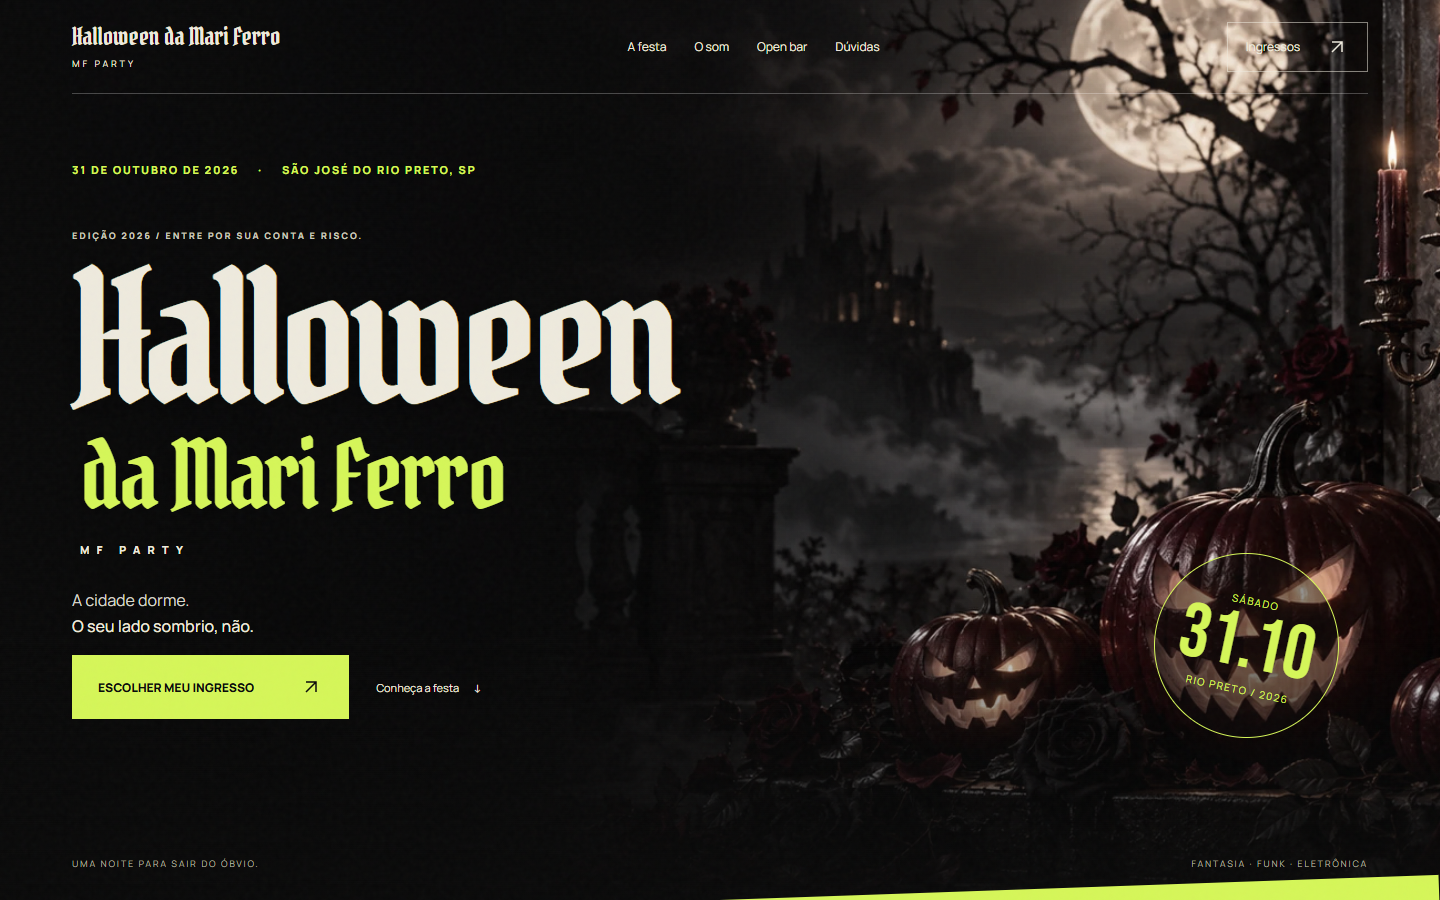
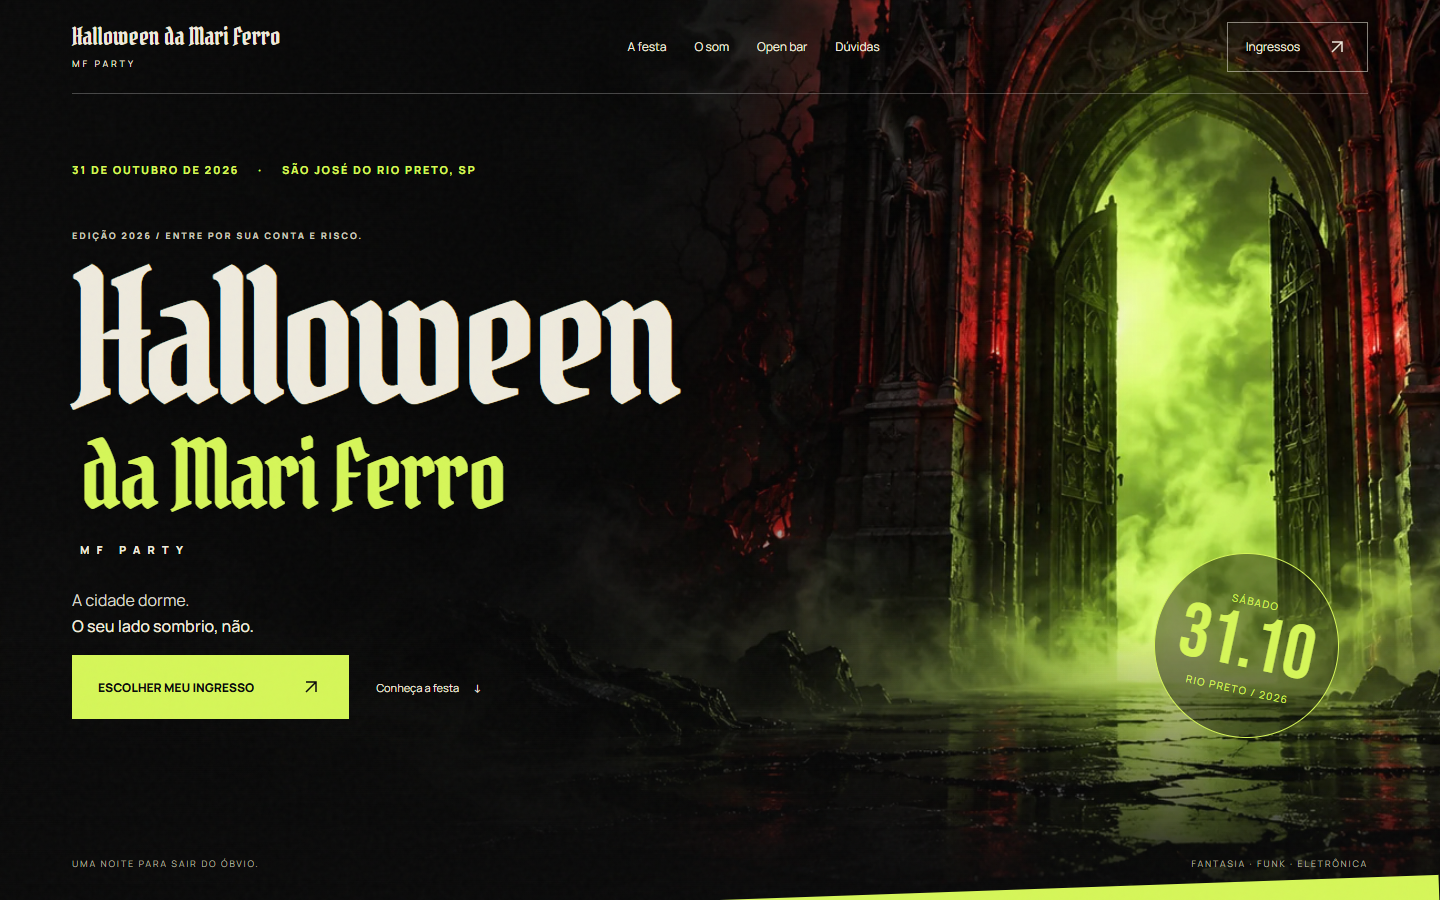
Troca fundo de abertura por portal gotico verde e vermelho

Changed region(s): [[0.5, 0.0, 1.0, 0.9644]]

diff --git a/css/home.css b/css/home.css
@@ -27,7 +27,7 @@ h2 em{font-style:normal;color:var(--acid)}
 .header nav a:hover{color:var(--acid)}
 .nav-cta{display:flex;align-items:center;gap:25px;border:1px solid #eeeadd88;padding:12px 18px;font-size:12px}
 .hero{position:relative;min-height:850px;height:100svh;max-height:1200px;isolation:isolate;overflow:hidden;background:#111510}
-.hero-art{position:absolute;inset:-8%;z-index:-2;background:linear-gradient(90deg,#090909 3%,#0909099c 40%,#09090900 75%),url('../images/mari-ferro-halloween.webp') center/cover;filter:saturate(.55)}
+.hero-art{position:absolute;inset:-8%;z-index:-2;background:linear-gradient(90deg,#090909 3%,#0909099c 40%,#09090900 75%),url('../images/halloween-portal.webp') center/cover;filter:saturate(.95)}
 .hero::after{content:"";position:absolute;inset:0;background:linear-gradient(0deg,#090909,transparent 30%);z-index:-1}
 .hero-content{padding-top:160px}
 .hero .eyebrow{color:var(--acid)}
@@ -150,7 +150,7 @@ footer p,footer>a:last-child{font-size:10px;color:var(--muted)}
 .header nav{display:none}
 .nav-cta{font-size:10px;padding:10px;gap:10px}
 .hero{height:850px;min-height:0;max-height:none}
-.hero-art{background-position:65% center;background-image:linear-gradient(90deg,#090909bd,#09090944),url('../images/mari-ferro-halloween.webp')}
+.hero-art{background-position:65% center;background-image:linear-gradient(90deg,#090909bd,#09090944),url('../images/halloween-portal.webp')}
 .hero-content{padding-top:123px}
 .hero .eyebrow{max-width:250px;font-size:9px;line-height:1.8}
 .hero .eyebrow span{margin:0 5px}

diff --git a/index.html b/index.html
@@ -18,7 +18,7 @@
   <link rel="preconnect" href="https://fonts.googleapis.com">
   <link rel="preconnect" href="https://fonts.gstatic.com" crossorigin>
   <link href="https://fonts.googleapis.com/css2?family=Bebas+Neue&family=Manrope:wght@400;500;600;700;800&family=Pirata+One&display=swap" rel="stylesheet">
-  <link rel="preload" as="image" href="images/mari-ferro-halloween.webp" fetchpriority="high">
+  <link rel="preload" as="image" href="images/halloween-portal.webp" fetchpriority="high">
   <link rel="stylesheet" href="css/home.css">
 
   <script src="js/config.js" defer></script>

diff --git a/qa/HERO-PORTAL.md b/qa/HERO-PORTAL.md
@@ -1,0 +1,11 @@
+# Fundo de abertura
+
+Gerado com a ferramenta integrada image_gen. Fonte: images/halloween-portal.png. Arquivo otimizado utilizado no site: images/halloween-portal.webp.
+
+## Prompt
+
+Use case: ads-marketing. Create a premium cinematic Halloween underground party website background, wide landscape 16:9. A monumental gothic stone doorway on the RIGHT HALF opens into an eerie acid-chartreuse luminous fog, with deep red rim lighting, black thorn branches and subtle silhouettes of bats high up. Wet dark obsidian ground reflecting green and red light, dense atmospheric smoke. Sophisticated photographic art direction, tactile stone, striking contrast, stylish ominous party atmosphere, not cartoonish, no gore. LEFT HALF mostly near-black negative space with subtle wisps of fog for large website heading overlay. Main doorway centered around 72% width so it survives mobile center-right crop. Palette near-black, acid lime #d5f658, restrained blood red #f04435. No pumpkins, no moon, no cemetery, no people, no letters, no typography, no logos, no watermarks. Image only, no UI mockup.
+
+## Verificacao
+
+QA responsivo em 320, 768 e 1440 pixels; rolagem em 390 e 1440 pixels, sem erros JavaScript. Imagem de abertura, preload e recorte mobile atualizados.
